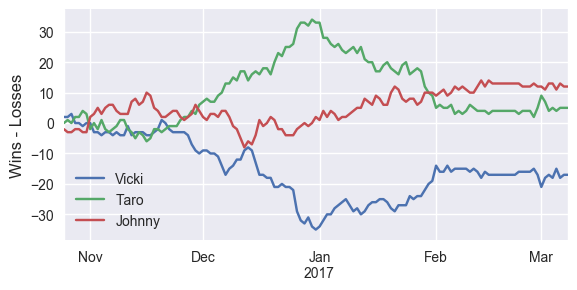
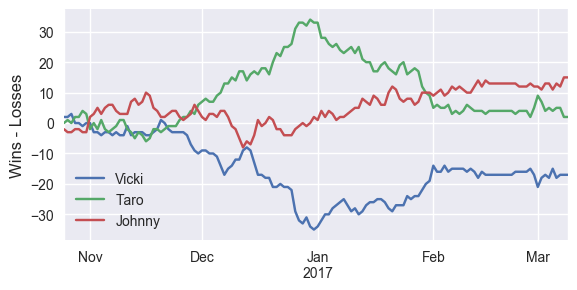
update 3/9

diff --git a/index.html b/index.html
@@ -35,7 +35,7 @@
 <a id="the-bet-is-on" class="anchor" href="#the-bet-is-on" aria-hidden="true"><span aria-hidden="true" class="octicon octicon-link"></span></a>The bet is on.</h1>
 
 <h1>
-<a id="current-winner-of-2016-17-season" class="anchor" href="#current-winner-of-2016-17-season" aria-hidden="true"><span aria-hidden="true" class="octicon octicon-link"></span></a>Current winner of 2016-17 Season (as of 3/8/2017):</h1>
+<a id="current-winner-of-2016-17-season" class="anchor" href="#current-winner-of-2016-17-season" aria-hidden="true"><span aria-hidden="true" class="octicon octicon-link"></span></a>Current winner of 2016-17 Season (as of 3/9/2017):</h1>
 
 <h2>
 <a id="none" class="anchor" href="#none" aria-hidden="true"><span aria-hidden="true" class="octicon octicon-link"></span></a><strong>Johnny</strong>
@@ -44,23 +44,23 @@
 <h2>
 <a id="johnny" class="anchor" href="Johnny.html" aria-hidden="true"><span aria-hidden="true" class="octicon octicon-link"></span>Johnny</a></h2>
 
-<p>Wins: 322<br>
-Losses: 310<br>
-Remaining wins available: 162</p>
+<p>Wins: 328<br>
+Losses: 313<br>
+Remaining wins available: 154</p>
 
 <h2>
 <a id="taro" class="anchor" href="Taro.html" aria-hidden="true"><span aria-hidden="true" class="octicon octicon-link"></span>Taro</a></h2>
 
-<p>Wins: 318<br>
-Losses: 313<br>
-Remaining wins available: 164</p>
+<p>Wins: 321<br>
+Losses: 319<br>
+Remaining wins available: 157</p>
 
 <h2>
 <a id="vicki" class="anchor" href="Vicki.html" aria-hidden="true"><span aria-hidden="true" class="octicon octicon-link"></span>Vicki</a></h2>
 
-<p>Wins: 307<br>
-Losses: 324<br>
-Remaining wins available: 161</p>
+<p>Wins: 309<br>
+Losses: 326<br>
+Remaining wins available: 157</p>
 
 <img src='pythoncode/win_percent.png' alt='Winning Percentage Over Time'>
 <h1>

diff --git a/Johnny.html b/Johnny.html
@@ -35,9 +35,9 @@
 
 <h2>Johnny</h2>
 
-<p>Wins: 322<br>
-Losses: 310<br>
-Remaining wins available: 162</p>
+<p>Wins: 328<br>
+Losses: 313<br>
+Remaining wins available: 154</p>
 
 <h2> Current teams </h2>
 <table border="1">
@@ -49,51 +49,51 @@ Remaining wins available: 162</p>
 </tr>
 <tr>
 <td>Bucks</td>
-<td>29</td>
+<td>30</td>
 <td>33</td>
-<td>20</td>
+<td>19</td>
 </tr>
 <tr>
 <td>Warriors</td>
 <td>52</td>
-<td>11</td>
-<td>19</td>
+<td>12</td>
+<td>18</td>
 </tr>
 <tr>
 <td>Timberwolves</td>
-<td>25</td>
+<td>26</td>
 <td>37</td>
-<td>20</td>
-</tr>
-<tr>
-<td>Hawks</td>
-<td>34</td>
-<td>29</td>
 <td>19</td>
 </tr>
 <tr>
-<td>Celtics</td>
-<td>40</td>
-<td>24</td>
+<td>Hawks</td>
+<td>35</td>
+<td>29</td>
 <td>18</td>
+</tr>
+<tr>
+<td>Celtics</td>
+<td>41</td>
+<td>24</td>
+<td>17</td>
 </tr>
 <tr>
 <td>Pistons</td>
 <td>31</td>
-<td>32</td>
-<td>19</td>
+<td>33</td>
+<td>18</td>
 </tr>
 <tr>
 <td>Nuggets</td>
 <td>29</td>
-<td>34</td>
-<td>19</td>
+<td>35</td>
+<td>18</td>
 </tr>
 <tr>
 <td>Jazz</td>
-<td>40</td>
+<td>41</td>
 <td>24</td>
-<td>18</td>
+<td>17</td>
 </tr>
 <tr>
 <td>Lakers</td>
@@ -103,9 +103,9 @@ Remaining wins available: 162</p>
 </tr>
 <tr>
 <td>Magic</td>
-<td>23</td>
+<td>24</td>
 <td>41</td>
-<td>18</td>
+<td>17</td>
 </tr>
 </table>
 

diff --git a/Taro.html b/Taro.html
@@ -35,9 +35,9 @@
 
 <h2>Taro</h2>
 
-<p>Wins: 318<br>
-Losses: 313<br>
-Remaining wins available: 164</p>
+<p>Wins: 321<br>
+Losses: 319<br>
+Remaining wins available: 157</p>
 
 <h2> Current teams </h2>
 <table border="1">
@@ -50,14 +50,14 @@ Remaining wins available: 164</p>
 <tr>
 <td>Knicks</td>
 <td>26</td>
-<td>38</td>
-<td>18</td>
+<td>39</td>
+<td>17</td>
 </tr>
 <tr>
 <td>Nets</td>
 <td>11</td>
-<td>51</td>
-<td>20</td>
+<td>52</td>
+<td>19</td>
 </tr>
 <tr>
 <td>Thunder</td>
@@ -67,45 +67,45 @@ Remaining wins available: 164</p>
 </tr>
 <tr>
 <td>Raptors</td>
-<td>37</td>
+<td>38</td>
 <td>26</td>
-<td>19</td>
+<td>18</td>
 </tr>
 <tr>
 <td>Spurs</td>
-<td>49</td>
+<td>50</td>
 <td>13</td>
-<td>20</td>
+<td>19</td>
 </tr>
 <tr>
 <td>Hornets</td>
 <td>28</td>
-<td>35</td>
-<td>19</td>
+<td>36</td>
+<td>18</td>
 </tr>
 <tr>
 <td>Rockets</td>
 <td>44</td>
-<td>20</td>
-<td>18</td>
+<td>21</td>
+<td>17</td>
 </tr>
 <tr>
 <td>Wizards</td>
-<td>38</td>
+<td>39</td>
 <td>24</td>
-<td>20</td>
+<td>19</td>
 </tr>
 <tr>
 <td>Kings</td>
 <td>25</td>
-<td>38</td>
-<td>19</td>
+<td>39</td>
+<td>18</td>
 </tr>
 <tr>
 <td>Pelicans</td>
 <td>25</td>
-<td>39</td>
-<td>18</td>
+<td>40</td>
+<td>17</td>
 </tr>
 </table>
 

diff --git a/Vicki.html b/Vicki.html
@@ -35,9 +35,9 @@
 
 <h2>Vicki</h2>
 
-<p>Wins: 307<br>
-Losses: 324<br>
-Remaining wins available: 161</p>
+<p>Wins: 309<br>
+Losses: 326<br>
+Remaining wins available: 157</p>
 
 <h2> Current teams </h2>
 <table border="1">
@@ -49,9 +49,9 @@ Remaining wins available: 161</p>
 </tr>
 <tr>
 <td>Heat</td>
-<td>30</td>
+<td>31</td>
 <td>34</td>
-<td>18</td>
+<td>17</td>
 </tr>
 <tr>
 <td>Mavericks</td>
@@ -74,8 +74,8 @@ Remaining wins available: 161</p>
 <tr>
 <td>Bulls</td>
 <td>31</td>
-<td>32</td>
-<td>19</td>
+<td>33</td>
+<td>18</td>
 </tr>
 <tr>
 <td>76ers</td>
@@ -92,8 +92,8 @@ Remaining wins available: 161</p>
 <tr>
 <td>Clippers</td>
 <td>38</td>
-<td>25</td>
-<td>19</td>
+<td>26</td>
+<td>18</td>
 </tr>
 <tr>
 <td>Suns</td>
@@ -103,9 +103,9 @@ Remaining wins available: 161</p>
 </tr>
 <tr>
 <td>Pacers</td>
-<td>32</td>
+<td>33</td>
 <td>31</td>
-<td>19</td>
+<td>18</td>
 </tr>
 </table>
 
